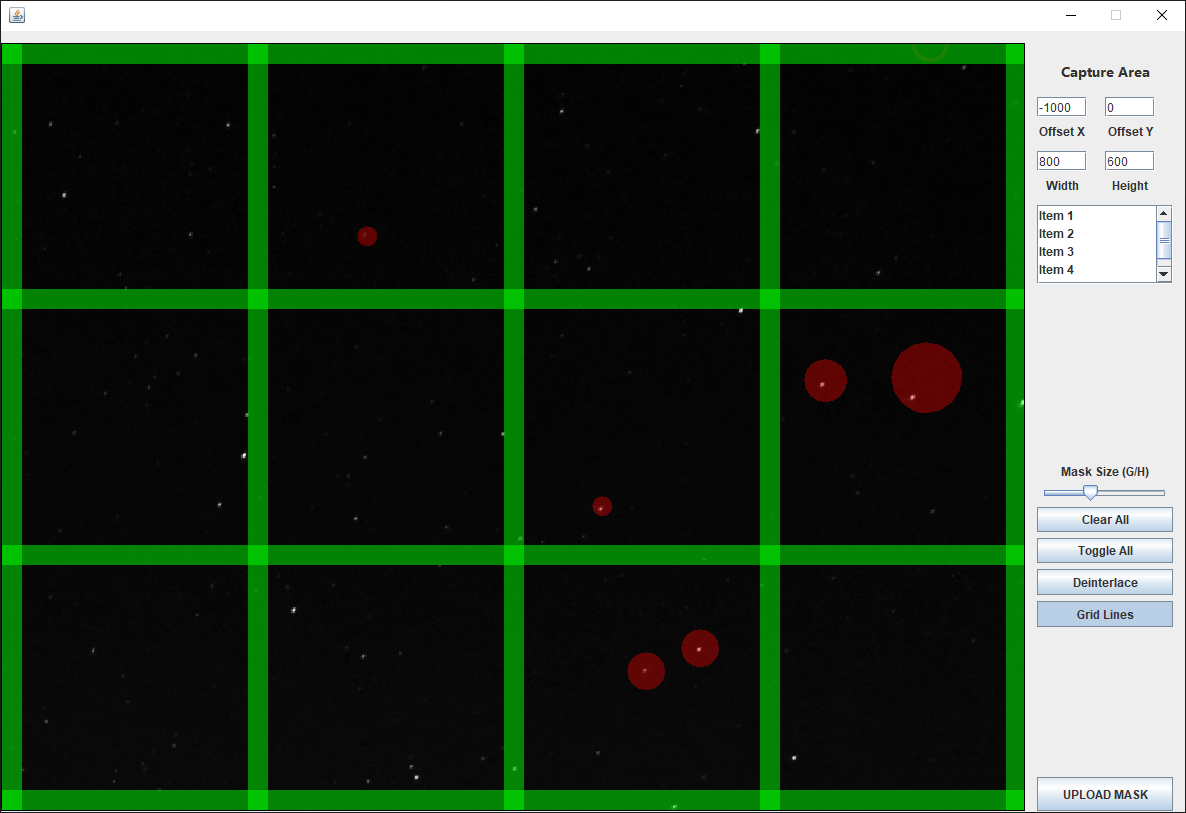
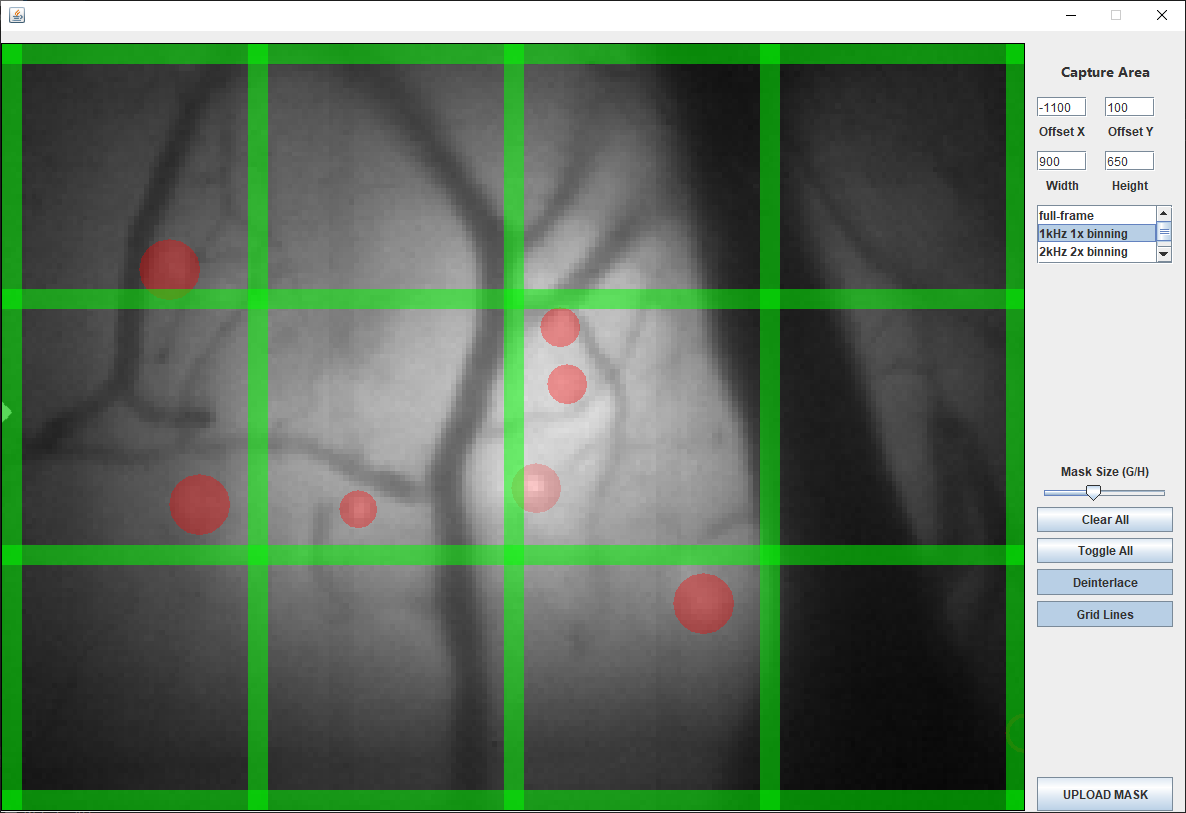
- Updated capture area presets - Updated client screenshot.

diff --git a/ProjectorClient/src/main/java/projectorclient/view/ClientFrame.java b/ProjectorClient/src/main/java/projectorclient/view/ClientFrame.java
@@ -186,7 +186,7 @@ public class ClientFrame extends javax.swing.JFrame {
         });
 
         capturePresets.setModel(new javax.swing.AbstractListModel<String>() {
-            String[] strings = { "Item 1", "Item 2", "Item 3", "Item 4", "Item 5" };
+            String[] strings = { "full-frame", "1kHz 1x binning", "2kHz 2x binning", "2kHz 2x binning" };
             public int getSize() { return strings.length; }
             public String getElementAt(int i) { return strings[i]; }
         });
@@ -258,8 +258,8 @@ public class ClientFrame extends javax.swing.JFrame {
                             .addComponent(jLabel5)
                             .addComponent(jLabel4))
                         .addPreferredGap(javax.swing.LayoutStyle.ComponentPlacement.UNRELATED)
-                        .addComponent(jScrollPane1, javax.swing.GroupLayout.PREFERRED_SIZE, 79, javax.swing.GroupLayout.PREFERRED_SIZE)
-                        .addGap(179, 179, 179)
+                        .addComponent(jScrollPane1, javax.swing.GroupLayout.PREFERRED_SIZE, 59, javax.swing.GroupLayout.PREFERRED_SIZE)
+                        .addGap(199, 199, 199)
                         .addComponent(jLabel6)
                         .addPreferredGap(javax.swing.LayoutStyle.ComponentPlacement.RELATED)
                         .addComponent(maskSizeSlider, javax.swing.GroupLayout.PREFERRED_SIZE, javax.swing.GroupLayout.DEFAULT_SIZE, javax.swing.GroupLayout.PREFERRED_SIZE)
